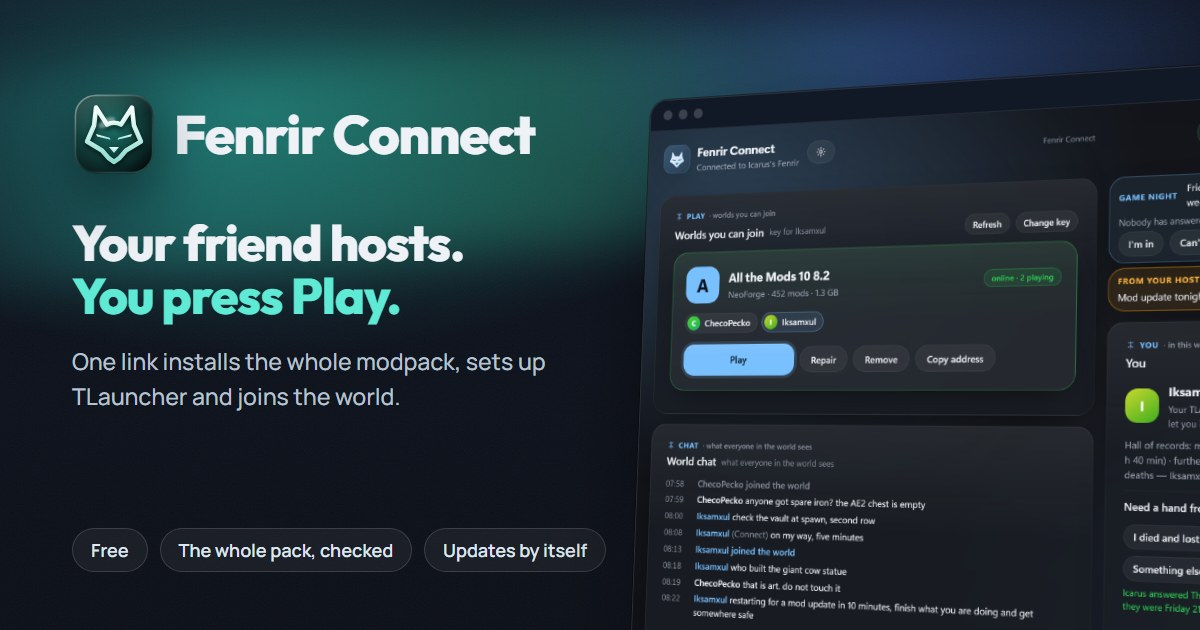
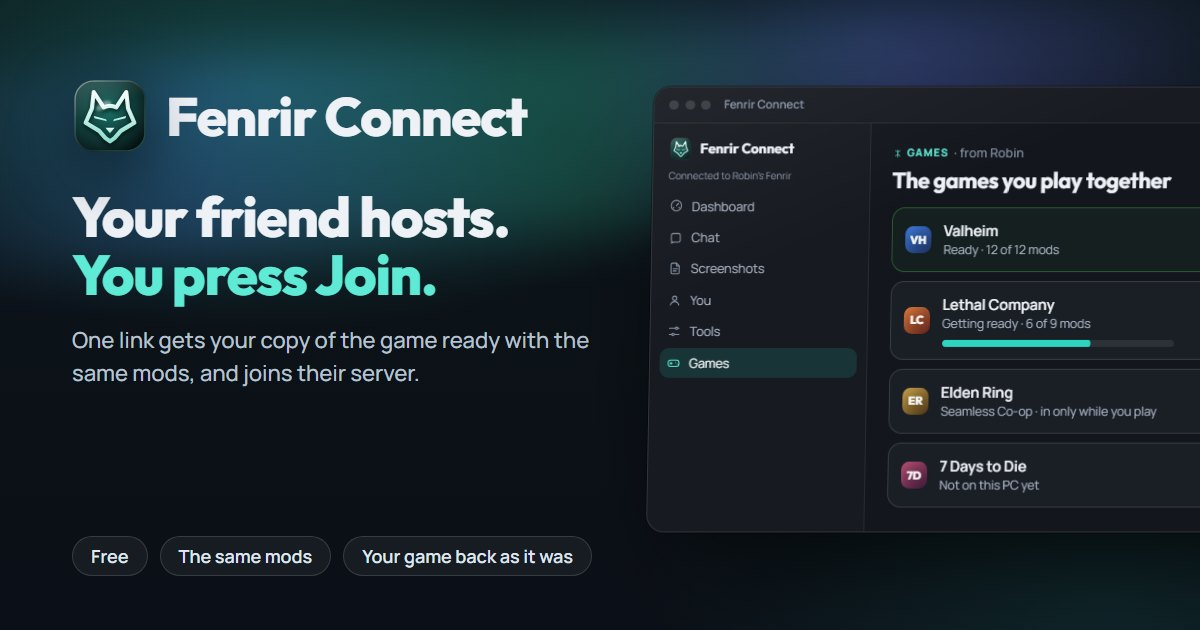
New social cards drawn from the site's own scenes, with made-up names
The three 1200x630 link previews showed this PC's name and real gamertags, and Minecraft first. They are now rendered from the pages' own HTML scenes: Fenrir with its Games page and tonight's game night, Fenrir Connect with the games a host shared, Fenrir Link with a phone of servers, a site and game night. Each says its line, one sentence and three promises (free, no account, every file back; the same mods, your game back as it was; Android and iPhone, a passkey). The image alt text says what the card shows, and the home window's Games count matches its eight games.

diff --git a/index.html b/index.html
@@ -14,12 +14,12 @@
 <meta property="og:image" content="https://iksamxul.github.io/fenrir/assets/social.jpg">
 <meta property="og:image:width" content="1200">
 <meta property="og:image:height" content="630">
-<meta property="og:image:alt" content="Fenrir: mod any game, host anything. Beside it, the Games page with a game night tonight and the servers you host.">
+<meta property="og:image:alt" content="Fenrir: mod any game, host anything. Beside it, Fenrir's Games page with a game night tonight and the games on this PC.">
 <meta name="twitter:card" content="summary_large_image">
 <meta name="twitter:title" content="Fenrir · Mod any game. Host anything.">
 <meta name="twitter:description" content="Mods for every game you own, game servers and your own sites from one PC, and a link of their own for every friend. Free for Windows.">
 <meta name="twitter:image" content="https://iksamxul.github.io/fenrir/assets/social.jpg">
-<meta name="twitter:image:alt" content="Fenrir: mod any game, host anything. Beside it, the Games page with a game night tonight and the servers you host.">
+<meta name="twitter:image:alt" content="Fenrir: mod any game, host anything. Beside it, Fenrir's Games page with a game night tonight and the games on this PC.">
 <link rel="canonical" href="https://iksamxul.github.io/fenrir/">
 <link rel="icon" href="assets/fenrir.svg" type="image/svg+xml">
 <link rel="icon" href="assets/wolf.png" type="image/png" sizes="256x256">
@@ -180,7 +180,7 @@
             <div class="aw__side">
               <span class="aw__brand"><svg class="i" aria-hidden="true"><use href="#i-wolf"/></svg>Fenrir</span>
               <span class="aw__sec">Games</span>
-              <span class="aw__item is-on"><svg class="i" aria-hidden="true"><use href="#i-pad"/></svg>Games<em>9</em></span>
+              <span class="aw__item is-on"><svg class="i" aria-hidden="true"><use href="#i-pad"/></svg>Games<em>8</em></span>
               <span class="aw__item"><svg class="i" aria-hidden="true"><use href="#i-users"/></svg>Friends<em>4</em></span>
               <span class="aw__sec">Servers</span>
               <span class="aw__switch"><b>Valheim</b><small>game server · switch or add</small></span>

diff --git a/host.html b/host.html
@@ -14,12 +14,12 @@
 <meta property="og:image" content="https://iksamxul.github.io/fenrir/assets/social.jpg">
 <meta property="og:image:width" content="1200">
 <meta property="og:image:height" content="630">
-<meta property="og:image:alt" content="Fenrir: mod any game, host anything. Beside it, the Games page with a game night tonight and the servers you host.">
+<meta property="og:image:alt" content="Fenrir: mod any game, host anything. Beside it, Fenrir's Games page with a game night tonight and the games on this PC.">
 <meta name="twitter:card" content="summary_large_image">
 <meta name="twitter:title" content="Fenrir for the PC that hosts">
 <meta name="twitter:description" content="Every game and its mods, game servers that look after themselves, your own sites and apps online, and a way back for everything. Free for Windows.">
 <meta name="twitter:image" content="https://iksamxul.github.io/fenrir/assets/social.jpg">
-<meta name="twitter:image:alt" content="Fenrir: mod any game, host anything. Beside it, the Games page with a game night tonight and the servers you host.">
+<meta name="twitter:image:alt" content="Fenrir: mod any game, host anything. Beside it, Fenrir's Games page with a game night tonight and the games on this PC.">
 <link rel="canonical" href="https://iksamxul.github.io/fenrir/host">
 <link rel="icon" href="assets/fenrir.svg" type="image/svg+xml">
 <link rel="icon" href="assets/wolf.png" type="image/png" sizes="256x256">

diff --git a/404.html b/404.html
@@ -16,12 +16,12 @@
 <meta property="og:image" content="https://iksamxul.github.io/fenrir/assets/social.jpg">
 <meta property="og:image:width" content="1200">
 <meta property="og:image:height" content="630">
-<meta property="og:image:alt" content="Fenrir: mod any game, host anything. Beside it, the Games page with a game night tonight and the servers you host.">
+<meta property="og:image:alt" content="Fenrir: mod any game, host anything. Beside it, Fenrir's Games page with a game night tonight and the games on this PC.">
 <meta name="twitter:card" content="summary_large_image">
 <meta name="twitter:title" content="Fenrir · Mod any game. Host anything.">
 <meta name="twitter:description" content="Mods for every game you own, game servers and your own sites from one PC, and a link of their own for every friend. Free for Windows.">
 <meta name="twitter:image" content="https://iksamxul.github.io/fenrir/assets/social.jpg">
-<meta name="twitter:image:alt" content="Fenrir: mod any game, host anything. Beside it, the Games page with a game night tonight and the servers you host.">
+<meta name="twitter:image:alt" content="Fenrir: mod any game, host anything. Beside it, Fenrir's Games page with a game night tonight and the games on this PC.">
 <link rel="icon" href="assets/fenrir.svg" type="image/svg+xml">
 <link rel="icon" href="assets/wolf.png" type="image/png" sizes="256x256">
 <link rel="apple-touch-icon" href="assets/wolf.png">

diff --git a/download.html b/download.html
@@ -14,12 +14,12 @@
 <meta property="og:image" content="https://iksamxul.github.io/fenrir/assets/social.jpg">
 <meta property="og:image:width" content="1200">
 <meta property="og:image:height" content="630">
-<meta property="og:image:alt" content="Fenrir: mod any game, host anything. Beside it, the Games page with a game night tonight and the servers you host.">
+<meta property="og:image:alt" content="Fenrir: mod any game, host anything. Beside it, Fenrir's Games page with a game night tonight and the games on this PC.">
 <meta name="twitter:card" content="summary_large_image">
 <meta name="twitter:title" content="Download Fenrir">
 <meta name="twitter:description" content="Fenrir Setup for the PC that hosts, Fenrir Connect for friends, Fenrir Link for your phone. Free, with checksums for every file.">
 <meta name="twitter:image" content="https://iksamxul.github.io/fenrir/assets/social.jpg">
-<meta name="twitter:image:alt" content="Fenrir: mod any game, host anything. Beside it, the Games page with a game night tonight and the servers you host.">
+<meta name="twitter:image:alt" content="Fenrir: mod any game, host anything. Beside it, Fenrir's Games page with a game night tonight and the games on this PC.">
 <link rel="canonical" href="https://iksamxul.github.io/fenrir/download">
 <link rel="icon" href="assets/fenrir.svg" type="image/svg+xml">
 <link rel="icon" href="assets/wolf.png" type="image/png" sizes="256x256">

diff --git a/faq.html b/faq.html
@@ -14,12 +14,12 @@
 <meta property="og:image" content="https://iksamxul.github.io/fenrir/assets/social.jpg">
 <meta property="og:image:width" content="1200">
 <meta property="og:image:height" content="630">
-<meta property="og:image:alt" content="Fenrir: mod any game, host anything. Beside it, the Games page with a game night tonight and the servers you host.">
+<meta property="og:image:alt" content="Fenrir: mod any game, host anything. Beside it, Fenrir's Games page with a game night tonight and the games on this PC.">
 <meta name="twitter:card" content="summary_large_image">
 <meta name="twitter:title" content="Fenrir questions and fixes">
 <meta name="twitter:description" content="What each message means and what to press, for hosting, friends, games and mods, Minecraft, the phone and Fenrir itself.">
 <meta name="twitter:image" content="https://iksamxul.github.io/fenrir/assets/social.jpg">
-<meta name="twitter:image:alt" content="Fenrir: mod any game, host anything. Beside it, the Games page with a game night tonight and the servers you host.">
+<meta name="twitter:image:alt" content="Fenrir: mod any game, host anything. Beside it, Fenrir's Games page with a game night tonight and the games on this PC.">
 <link rel="canonical" href="https://iksamxul.github.io/fenrir/faq">
 <link rel="icon" href="assets/fenrir.svg" type="image/svg+xml">
 <link rel="icon" href="assets/wolf.png" type="image/png" sizes="256x256">
